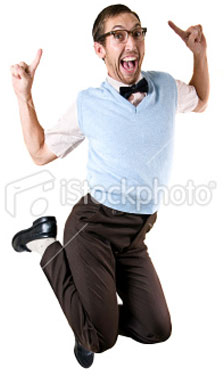
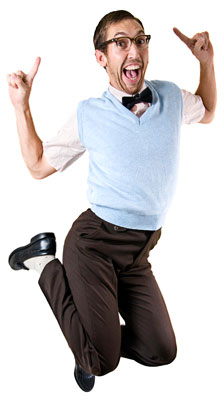
added non istock version of excited nerd

diff --git a/src/templates/thank-you/index.html b/src/templates/thank-you/index.html
@@ -8,6 +8,7 @@
             <h1>Go Ahead, Get Excited!</h1>
             <h2>You are one step closer to <br/> securing your home!</h2>
             <p>We would like to thank you for choosing Protect America for your family's security. We have sent you a confirmation email and one of our security professionals will be contacting you within 24 hours. We are committed to excellence and affordability when it comes to securing your home. Please feel to let us know if there is anything we can do to help you secure your home and family.</p>
+
         </div>
     </div>
     <div id="recommend-us">
@@ -17,7 +18,7 @@
                 <iframe src="//www.facebook.com/plugins/like.php?href=http%3A%2F%2Fwww.protectamerica.com&amp;send=false&amp;layout=box_count&amp;width=90&amp;show_faces=false&amp;action=like&amp;colorscheme=light&amp;font&amp;height=90&amp;appId=133351296712555" scrolling="no" frameborder="0" style="border:none; overflow:hidden; width:90px; height:90px;" allowTransparency="true"></iframe>
             </div>
             <h3>Like Us on Facebook.</h3>
-            <p>Enjoy protecting your home? Like us on Facebook to tell the world how great we are.</p>
+            <p>Enjoy protecting your home? <strong>Like us on Facebook</strong> to tell the world how great we are.</p>
 
         </div>
         <div id="google-plus">
@@ -50,3 +51,8 @@
         <div class="clear"></div>
     </div>
 {% endblock %}  
+{% block page-product %}
+    <h2>Copper Security Package</h2>
+    <p><span>Price Today: <strong>FREE*</strong></span>monthly monitoring starting at $29.99/mo</p>
+    <p><strong>Voted A Consumer Digest "Best Buy"</strong></p>
+{% endblock %}
